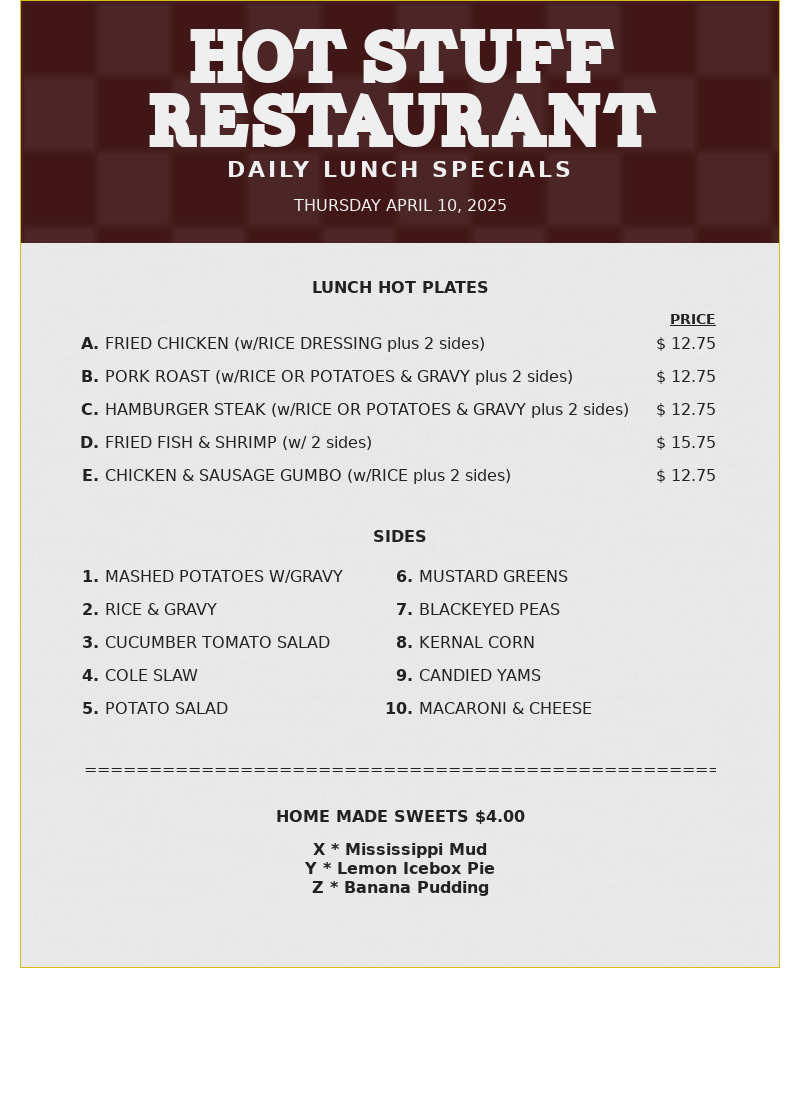
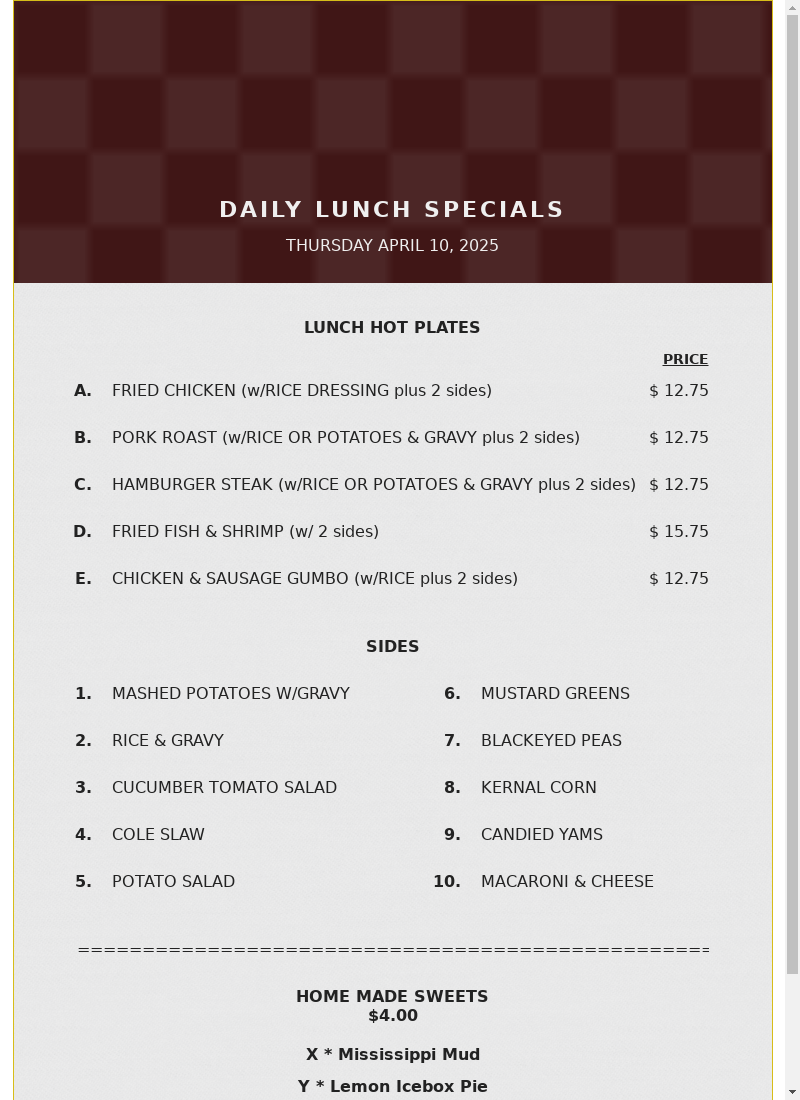
Checkpoint before assistant change: Improve screenshot generation by adjusting font loading timing.
Replit-Commit-Author: Assistant

diff --git a/django_project/static/css/pages.css b/django_project/static/css/pages.css
@@ -39,20 +39,25 @@ ul.specials {
     text-align: right;
     text-decoration: underline;
     content: 'Price' }
-ul.sides {
-  list-style-type: number }
+
 
 
 ul.specials li,
 ul.sides li {
-  padding: 7px 0 }
+  padding: 14px 0 14px 14px }
+
+ul.sides li:nth-child(n+6) {
+  margin-right: -56px;
+  margin-left: 56px }
 ul.specials li::marker,
 ul.sides li::marker {
   font-weight: bold }
 
 ul.specials li span.price { display: inline-block; float: right }
 
-ul.sides { columns: 2 }
+ul.sides { 
+  list-style-type: number;
+  columns: 2 }
 
 div.sweets {
   font-weight: bold;
@@ -60,6 +65,7 @@ div.sweets {
 
 ul.sweets {
   padding: 0;
+  line-height: 2;
   list-style-type: none }
 
 

diff --git a/django_project/static/css/templates.css b/django_project/static/css/templates.css
@@ -6,7 +6,7 @@
 html, body { padding: 0; margin: 0 }
 
 html {
-  font-family: 'Arial' }
+  font-family: var(--html-fonts) }
 
 body {
   background: linear-gradient(to bottom, rgba(255, 137, 41, .3), rgba(0, 0, 0, 1)),
@@ -21,11 +21,12 @@ h1, h2, h3, h4, h5 h6 { margin: 0 }
 h1 {
   text-align: center;
   font-size: 72px;
-  font-family: 'Cartonss' }
+  font-family: var(--head-fonts) }
 
 h2 { text-transform: uppercase }
 
 .content-size {
+  box-sizing: border-box;
   max-width: var(--content-size);
 
   margin: auto }

diff --git a/django_project/static/css/fontface/carton.css b/django_project/static/css/fontface/carton.css
@@ -1,5 +1,5 @@
 @font-face {
-  font-family: 'Cartonss';
+  font-family: 'Cartons';
   src: /* local('Carton'), local('Carton Slab'), local('Carton-Slab'), */
     url('carton-slab.woff2'),
     url('carton-slab.woff') }

diff --git a/django_project/static/css/organisms.css b/django_project/static/css/organisms.css
@@ -17,7 +17,7 @@ nav.page {
   justify-content: space-evenly }
 
   nav.page div {
-    font-family: 'Cartonss';
+    font-family: var(--head-fonts);
     display: flex;
     justify-content: center;
     width: 100% }

diff --git a/django_project/static/css/atoms.css b/django_project/static/css/atoms.css
@@ -6,6 +6,9 @@
   --hs-red: #6e1212;
 
   --content-size: 760px;
+
+  --head-fonts: 'Cartons', 'Georgia';
+  --html-fonts: 'Helvetica', 'Arial';
 }
 
 .pad { padding: var(--pad) }

diff --git a/specials/views.py b/specials/views.py
@@ -62,34 +62,7 @@ def index(request):
 def print(request):
   context = create_specials_objects()
   
-  # Check if we need to generate an image
-  if request.GET.get('image', False):
-    from django.conf import settings
-    import os
-    from django_project.utils import take_screenshot
-    
-    # Generate a dated filename
-    from datetime import datetime
-    filename = f"daily_special_{datetime.now().strftime('%Y%m%d_%H%M%S')}.png"
-    output_path = os.path.join(settings.MEDIA_ROOT, 'screenshots', filename)
-    
-    # Generate a full URL to the print page
-    # This ensures CSS and fonts are properly loaded
-    host = request.get_host()
-    protocol = 'https' if request.is_secure() else 'http'
-    full_url = f"{protocol}://{host}/specials/print/"
-    
-    # Take the screenshot with CSS and fonts included
-    success = take_screenshot(full_url, output_path)
-    
-    if success:
-        # Redirect to the image
-        from django.http import HttpResponseRedirect
-        return HttpResponseRedirect(f"{settings.MEDIA_URL}screenshots/{filename}")
-    else:
-        # If screenshot failed, show an error
-        from django.contrib import messages
-        messages.error(request, "Failed to generate screenshot")
+
   
   # Render the template normally
   return render(request, 'specials/print.html', context)

diff --git a/django_project/utils.py b/django_project/utils.py
@@ -112,7 +112,7 @@ def take_screenshot(url, output_file):
         # Create a fallback image with error message
         try:
             # Create a simple image with error text
-            img = Image.new('RGB', (800, 600), color=(255, 255, 255))
+            img = Image.new('RGB', (760, 600), color=(255, 255, 255))
             from PIL import ImageDraw, ImageFont
             draw = ImageDraw.Draw(img)
             draw.text((20, 20), f"Error capturing screenshot: {str(e)}", fill=(0, 0, 0))
